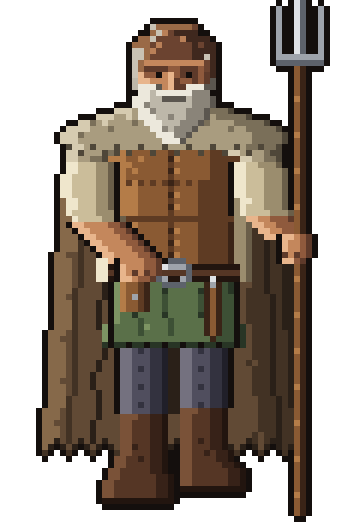
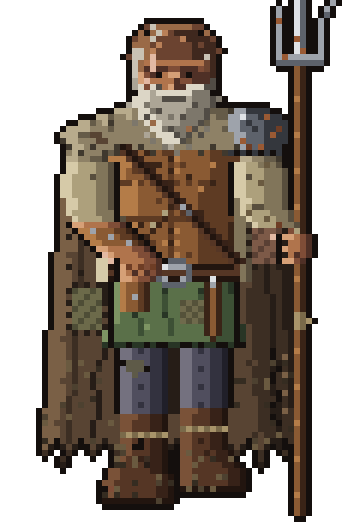
Vesper Road seed: Bram roughed up (scar, patches, mud, old war gear); ruggedness is part of the figure standard
Claude-Session: https://claude.ai/code/session_01H9sNYH9LKZF61giii29DCV

diff --git a/seeds/vesper-road/art-target/draw-bram.py b/seeds/vesper-road/art-target/draw-bram.py
@@ -4,14 +4,14 @@ T=(0,0,0,0)
 img=Image.new('RGBA',(W,H),T); px=img.load()
 def c(h): return tuple(int(h[i:i+2],16) for i in (1,3,5))+(255,)
 OUT=c('#140f0d')
-SKIN=[c('#e8b58c'),c('#c4875c'),c('#8f5a3d'),c('#5e3a2a')]
+SKIN=[c('#d6a077'),c('#b0744c'),c('#7f4d37'),c('#4f3026')]
 HAIR=[c('#c9c2b4'),c('#9a6a47'),c('#6b4330'),c('#3f281e')]
-BEARD=[c('#ece8dc'),c('#bdb7a9'),c('#8a8479'),c('#5b564f')]
-LINEN=[c('#efe6cc'),c('#cbbd9a'),c('#9b8d6e'),c('#6a5e49')]
+BEARD=[c('#dcd6c6'),c('#aca596'),c('#7d776b'),c('#514c45')]
+LINEN=[c('#d6caa8'),c('#ada07c'),c('#81755a'),c('#584e3d')]
 LEATH=[c('#b47c48'),c('#8a5a33'),c('#5e3b23'),c('#3a2417')]
 WOOL=[c('#7d9463'),c('#5a7049'),c('#3d5035'),c('#283525')]
-CLOAK=[c('#86694a'),c('#614a35'),c('#423224'),c('#2a2018')]
-FUR=[c('#d6cbb0'),c('#a99c7f'),c('#7a6f59'),c('#4f4739')]
+CLOAK=[c('#7a6046'),c('#584433'),c('#3c2e23'),c('#261d17')]
+FUR=[c('#b8ab8c'),c('#8e8166'),c('#655b48'),c('#40392e')]
 HOSE=[c('#74717f'),c('#504e5e'),c('#33323f'),c('#201f29')]
 BOOT=[c('#7a5238'),c('#553625'),c('#372218'),c('#22150f')]
 IRON=[c('#dfe2e6'),c('#9ea3ab'),c('#5d626b'),c('#34373d')]
@@ -139,6 +139,93 @@ for x in range(26,32): P(x,15,BEARD[0])                                         
 for x in range(27,31): P(x,16,BEARD[3])                                                   # mouth shadow
 for (x,y) in [(25,18),(28,19),(31,18),(27,21),(30,20),(24,17)]: P(x,y,BEARD[2])
 for (x,y) in [(24,16),(25,19),(26,20)]: P(x,y,BEARD[0])
+
+
+# ---------- rugged: a hard life, drawn on
+import random; random.seed(11)
+MUD=[c('#6a5a40'),c('#4d4130'),c('#352c21')]
+RUST=[c('#9a5a34'),c('#6e3d25')]
+SCAR=c('#e3b9a3')
+def opaque(x,y): return 0<=x<W and 0<=y<H and px[x,y][3]!=0
+# cloak: two stitched patches, stains, a long rip, mud up from the hem
+for (x0,y0,x1,y1,pal) in [(12,48,16,54,[c('#6c6a4a'),c('#4e4d36')]),(42,38,46,43,[c('#7d5a48'),c('#5a4034')])]:
+    for y in range(y0,y1+1):
+        for x in range(x0,x1+1): P(x,y,pal[0] if (x+y)%3 else pal[1])
+    for x in range(x0,x1+1,2): P(x,y0-1,CLOAK[3]); P(x,y1+1,CLOAK[3])
+    for y in range(y0,y1+1,2): P(x0-1,y,CLOAK[3]); P(x1+1,y,CLOAK[3])
+for y in range(58,71): P(45+(1 if y%5<2 else 0),y,OUT if y%4 else CLOAK[3])          # a rip, lit along one edge
+for y in range(59,70,3): P(47,y,CLOAK[0])
+for _ in range(70):
+    x=random.randrange(7,51); y=random.randrange(60,75)
+    if opaque(x,y) and px[x,y] in CLOAK: P(x,y,random.choice(MUD))
+for _ in range(26):
+    x=random.randrange(9,49); y=random.randrange(28,60)
+    if opaque(x,y) and px[x,y] in CLOAK: P(x,y,CLOAK[3] if random.random()<.6 else CLOAK[0])
+for x in (9,13,14,22,23,41,47,48): P(x,74,T); P(x,73,T) if x%2 else None              # torn hem
+for x in (10,24,43): P(x,76,CLOAK[2]); P(x,77,CLOAK[3])                                # hanging threads
+# mantle: matted fur, a bald worn patch
+for _ in range(40):
+    x=random.randrange(10,48); y=random.randrange(18,26)
+    if opaque(x,y) and px[x,y] in FUR: P(x,y,random.choice([FUR[2],FUR[3],FUR[1]]))
+for (x,y) in [(15,22),(16,22),(16,23),(17,23)]: P(x,y,CLOAK[1])
+# an old fighter's leftovers: a battered iron pauldron on one shoulder, a sword-belt strap across the chest
+for y,a,b in [(18,39,44),(19,38,46),(20,38,47),(21,38,47),(22,39,47),(23,39,47),(24,40,46)]: span(y,a,b,IRON[1:]+[IRON[3]],2,3,1)
+for (x,y) in [(41,20),(42,21)]: P(x,y,IRON[3])                                          # dent
+for (x,y) in [(44,19),(45,22),(40,23),(43,24)]: P(x,y,RUST[0])
+for (x,y) in [(46,21),(41,24)]: P(x,y,RUST[1])
+for x in range(38,48): P(x,25,OUT) if x%2 else P(x,25,IRON[3])
+P(40,19,IRON[0])
+for i in range(0,20):                                                                   # strap, shoulder to hip
+    x=20+i; y=24+i
+    if y<44: P(x,y,BOOT[3]); P(x,y+1,BOOT[1]); P(x+1,y,BOOT[2])
+P(30,34,IRON[1]); P(31,35,IRON[2])
+# jerkin: scuffs, a mended tear, sweat-dark under the arm
+for _ in range(34):
+    x=random.randrange(19,39); y=random.randrange(25,44)
+    if opaque(x,y) and px[x,y] in LEATH: P(x,y,random.choice([LEATH[0],LEATH[2],LEATH[2],LEATH[3]]))
+for i in range(5): P(23+i,40-i,LEATH[3]); P(23+i,39-i,LINEN[1]) if i%2==0 else None
+# shirt: stains and a frayed, uneven cuff
+for _ in range(16):
+    x=random.randrange(10,48); y=random.randrange(26,37)
+    if opaque(x,y) and px[x,y] in LINEN: P(x,y,random.choice([LINEN[2],LINEN[3],MUD[0]]))
+# forearms: a studded leather bracer on one, a dirty bandage on the other, old scars
+for y,a,b in [(38,13,21),(39,14,22),(40,15,23)]: span(y,a,b,LEATH,2,2,1)
+for (x,y) in [(15,38),(18,39),(21,40)]: P(x,y,IRON[1])
+for y,a,b in [(36,41,48),(37,42,49)]: span(y,a,b,LINEN,1,2,1)
+P(44,36,MUD[0]); P(46,37,RUST[1]); P(49,38,LINEN[1])
+P(17,42,SCAR); P(18,43,SCAR); P(45,39,SCAR)
+# hands: scabbed knuckles
+for (x,y) in [(21,44),(23,44),(25,44)]: P(x,y,RUST[1])
+# face: a sword scar through the brow to the cheek, a broken nose, hollowed cheek, crow's feet
+for (x,y) in [(25,9),(25,10),(25,11),(24,13)]: P(x,y,SCAR)
+P(25,12,SKIN[3]); P(24,14,SKIN[2])
+P(28,13,SKIN[1]); P(29,12,SKIN[0]); P(29,14,SKIN[3])                                    # nose knocked sideways
+P(32,13,SKIN[3]); P(33,12,SKIN[3]); P(33,13,SKIN[3]); P(24,11,SKIN[3])
+# hair and beard: unkempt, uneven
+for (x,y) in [(24,4),(33,4),(22,6),(36,8),(21,9),(35,6)]: P(x,y,HAIR[2])
+for (x,y) in [(23,5),(34,5)]: P(x,y,HAIR[1])
+for (x,y,t) in [(21,17,1),(36,16,2),(22,20,2),(34,21,2),(24,22,1),(33,22,3),(25,23,2),(31,24,2),(28,24,1),(29,25,2),(27,24,2)]: P(x,y,BEARD[t])
+for (x,y) in [(26,18),(30,19),(28,21),(32,17),(24,19),(29,22)]: P(x,y,BEARD[3])
+for (x,y) in [(25,20),(31,21)]: P(x,y,HAIR[1])                                           # red still in the grey
+# skirt: a patch and a ragged hem; hose patched at one knee
+for y in range(50,54):
+    for x in range(30,34): P(x,y,c('#6f6a4c') if (x+y)%2 else c('#55523a'))
+for x in (18,21,26,31,37,40): P(x,57,T)
+for (x,y) in [(21,60),(22,60),(23,60),(21,61),(22,61),(23,61),(22,62)]: P(x,y,c('#5e5a48'))
+P(20,60,OUT); P(24,61,OUT)
+# boots: caked mud, a split toe, a rope tie
+for _ in range(46):
+    x=random.randrange(16,42); y=random.randrange(74,84)
+    if opaque(x,y) and px[x,y] in BOOT: P(x,y,random.choice(MUD))
+for x in range(20,28): P(x,72,c('#a8946a') if x%2 else c('#7a6a4a'))
+for x in range(30,38): P(x,71,c('#a8946a') if x%2 else c('#7a6a4a'))
+P(17,81,OUT); P(18,81,SKIN[2])
+# pitchfork: rust, one bent tine, a bound split in the shaft
+for (x,y) in [(46,3),(49,6),(53,2),(50,8),(47,9)]: P(x,y,RUST[0])
+for y in range(0,3): P(53,y,T)
+P(54,2,IRON[2]); P(54,1,IRON[1]); P(55,0,IRON[1])
+for y in (52,53,54): P(49,y,c('#a8946a')); P(50,y,c('#7a6a4a'))
+P(51,53,c('#a8946a'))
 
 # ---------- outline: one dark pixel all round, and inside where parts overlap
 src=img.copy(); s=src.load()

diff --git a/seeds/vesper-road/art-target/README.md b/seeds/vesper-road/art-target/README.md
@@ -8,3 +8,9 @@ folds, a one-pixel dark outline, inner outlines where parts overlap. It is an ex
 What makes him work, and what every figure needs: about 80 native pixels tall; a small head on a broad body; a wide
 A-shaped silhouette from a heavy cloak; a readable face (brow shadow, single-pixel eyes, nose, beard); flat tones with
 hard-edged shadow shapes, no gradients; a planted stance with the hands doing something.
+
+He is also deliberately **rugged**, and so is everyone in this county who works or fights: weathered skin, a scar, an
+unkempt beard, patched and torn cloth, mud up from the hem and on the boots, scuffed leather, mismatched mended gear,
+and one or two things that tell his past (a battered pauldron, an old sword-belt strap). Nobody looks freshly
+laundered. Wear is drawn on after the clean figure, as the last section of the script shows; keep it readable, not
+noisy.
